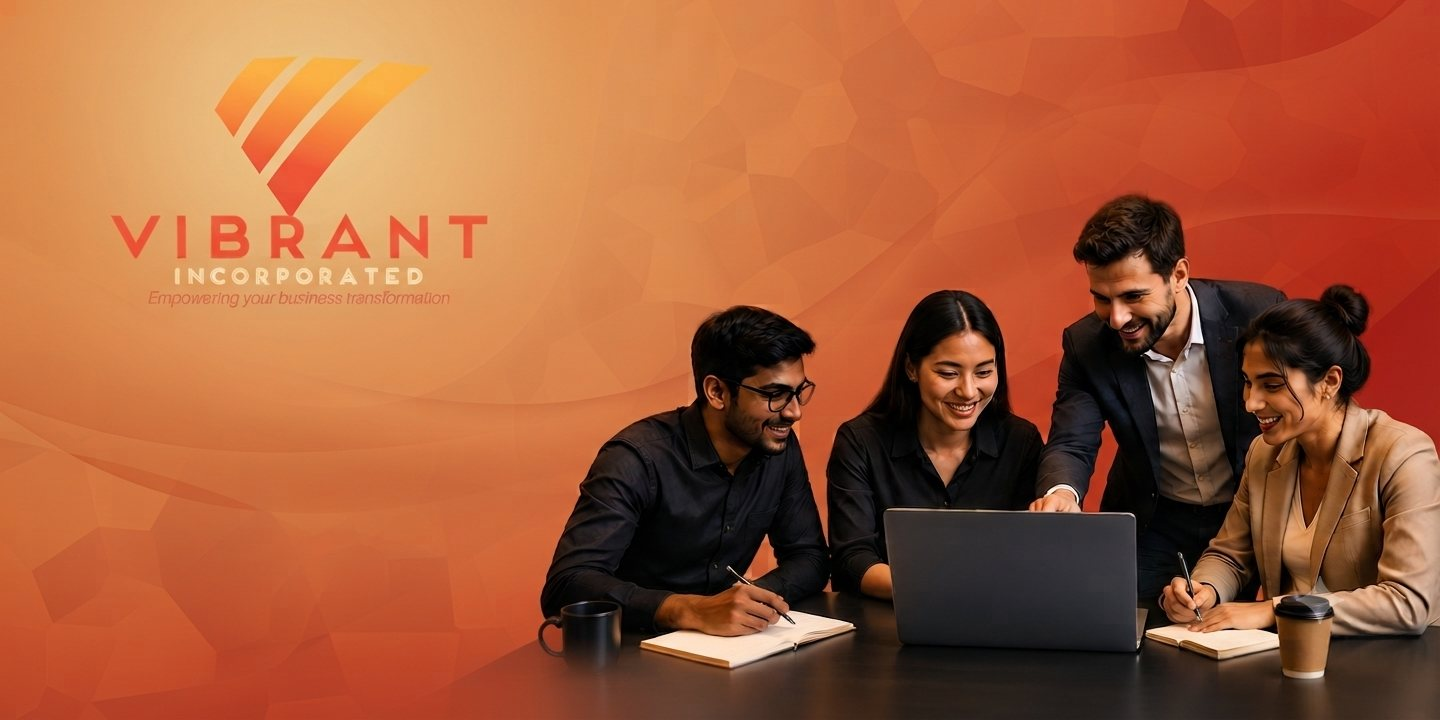
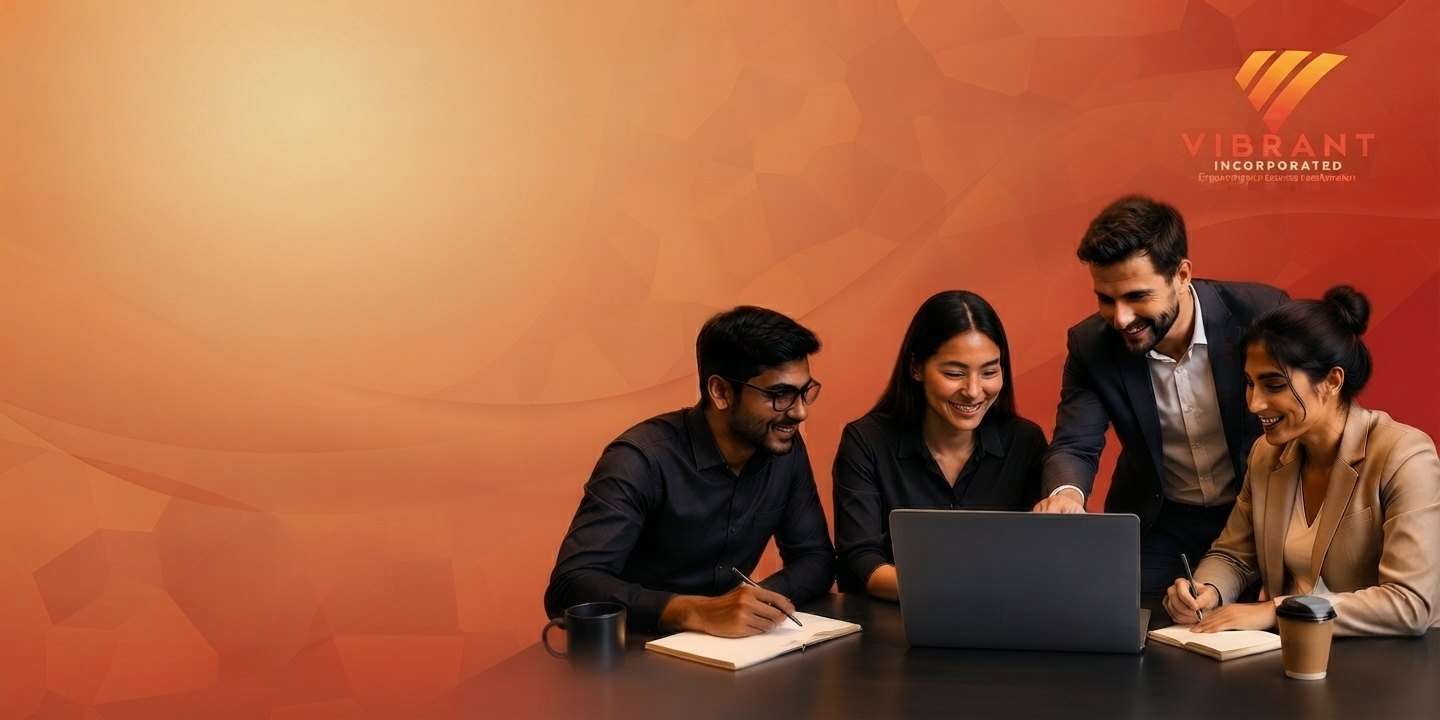
ssets

diff --git a/components/home/hero-slider.tsx b/components/home/hero-slider.tsx
@@ -16,7 +16,7 @@ export function HeroSlider() {
           fill
           priority
           sizes="100vw"
-          className="object-cover object-[72%_center] lg:object-[25%_center]"
+          className="object-cover object-[62%_center] md:object-[36%_center] lg:object-right-top"
           placeholder="blur"
         />
       </div>
